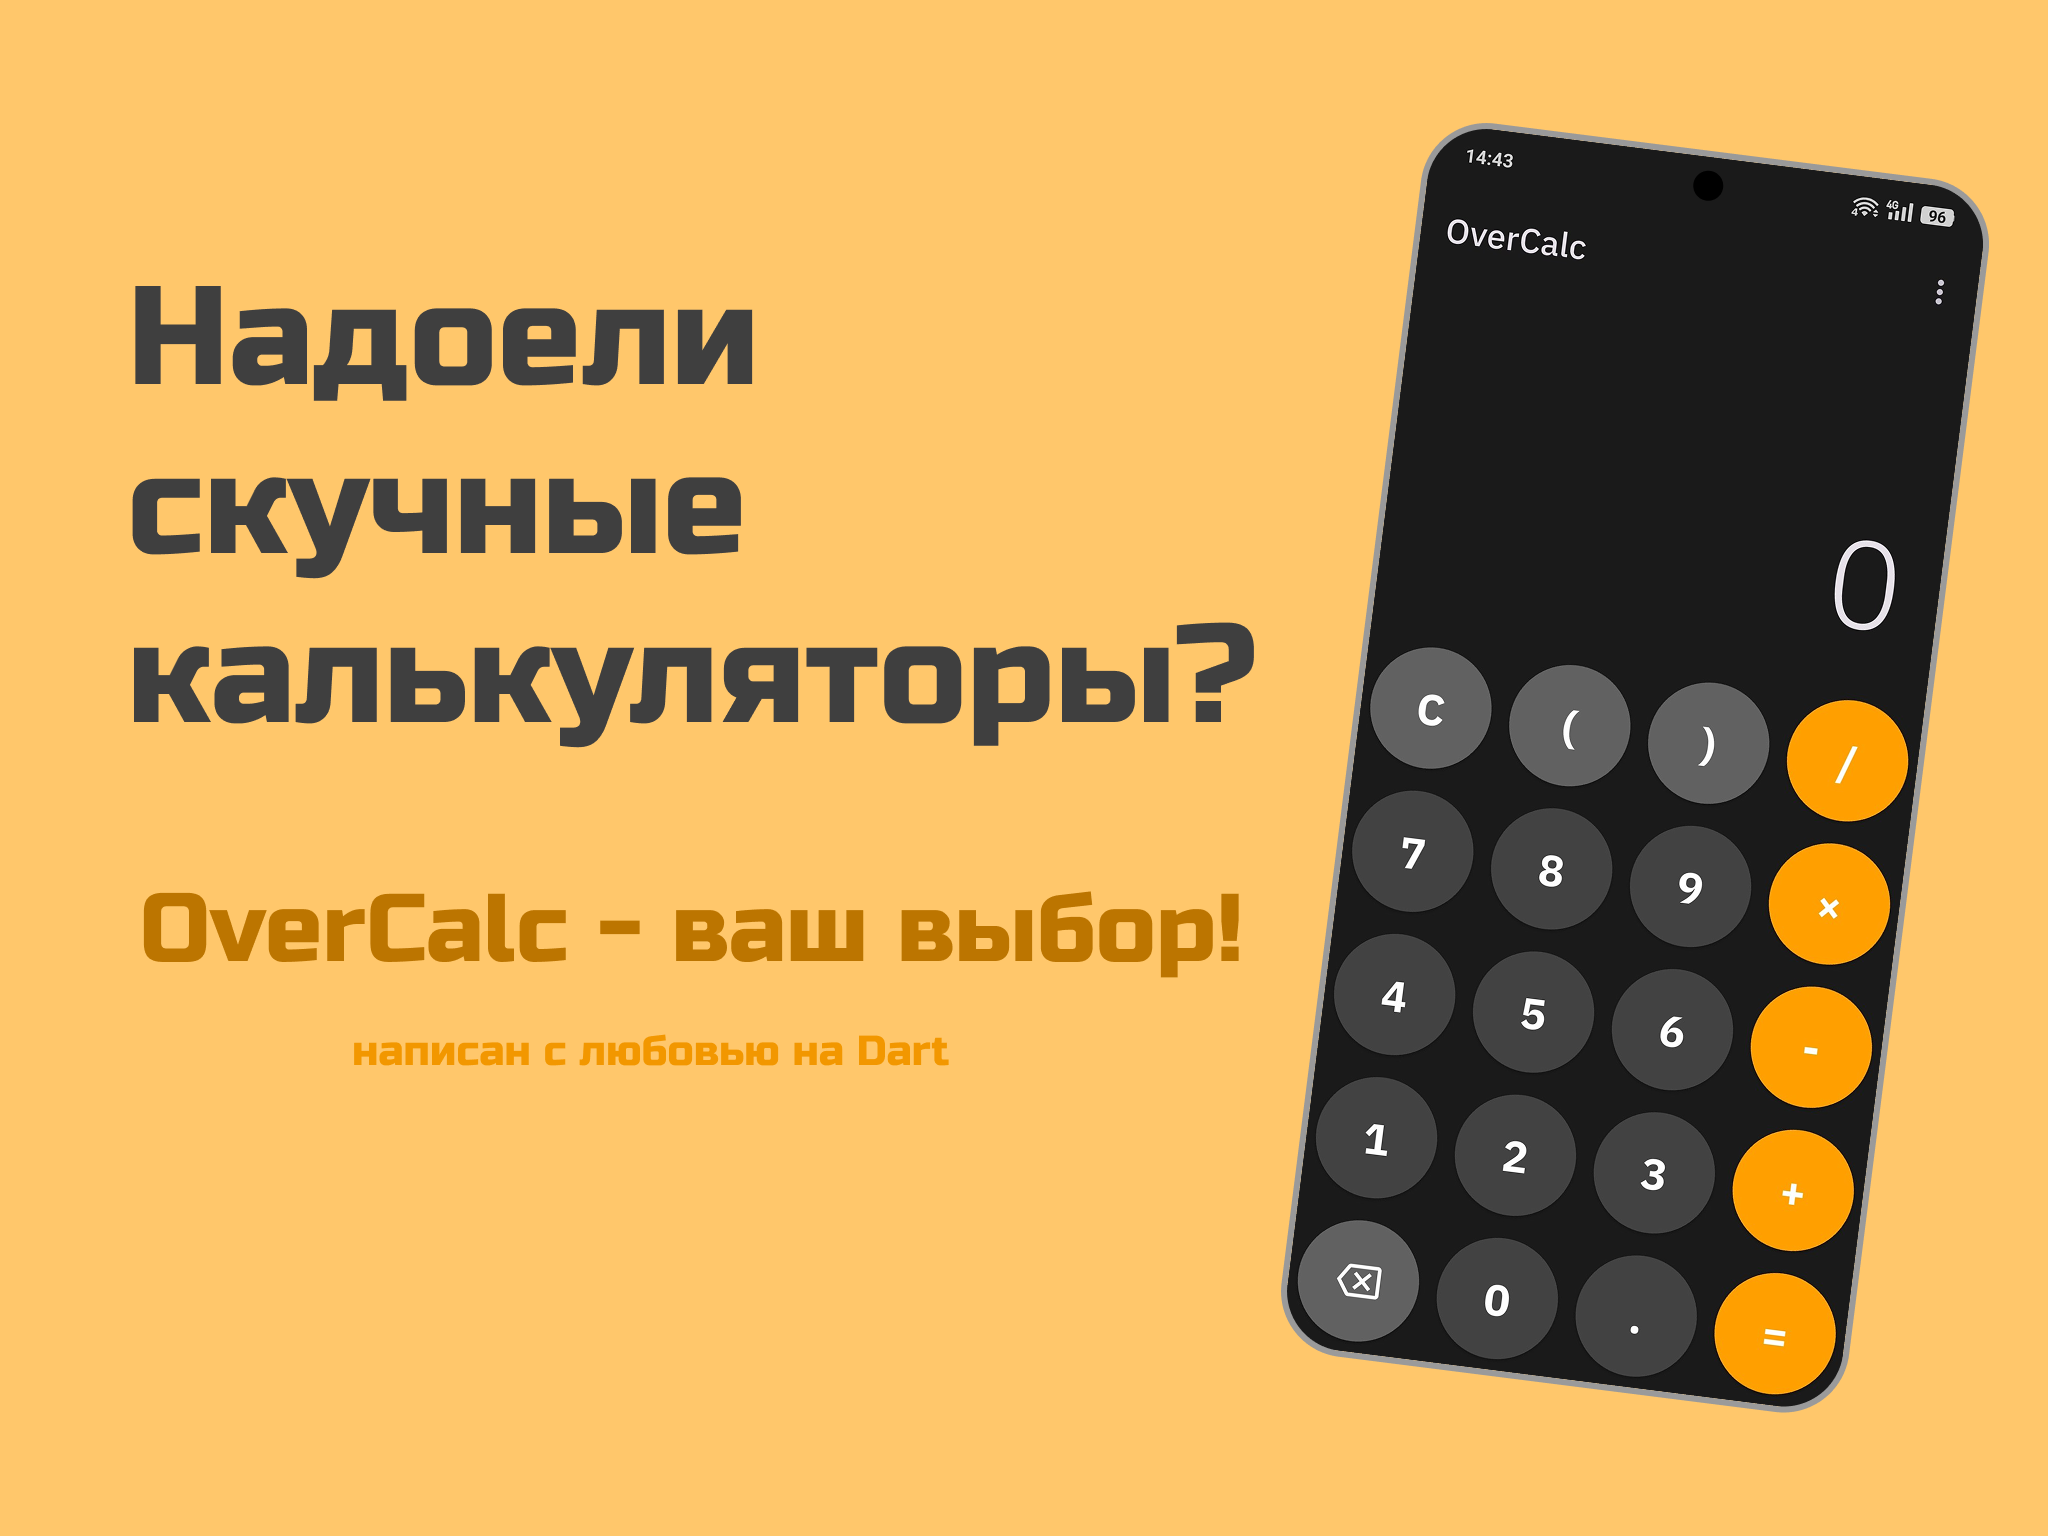
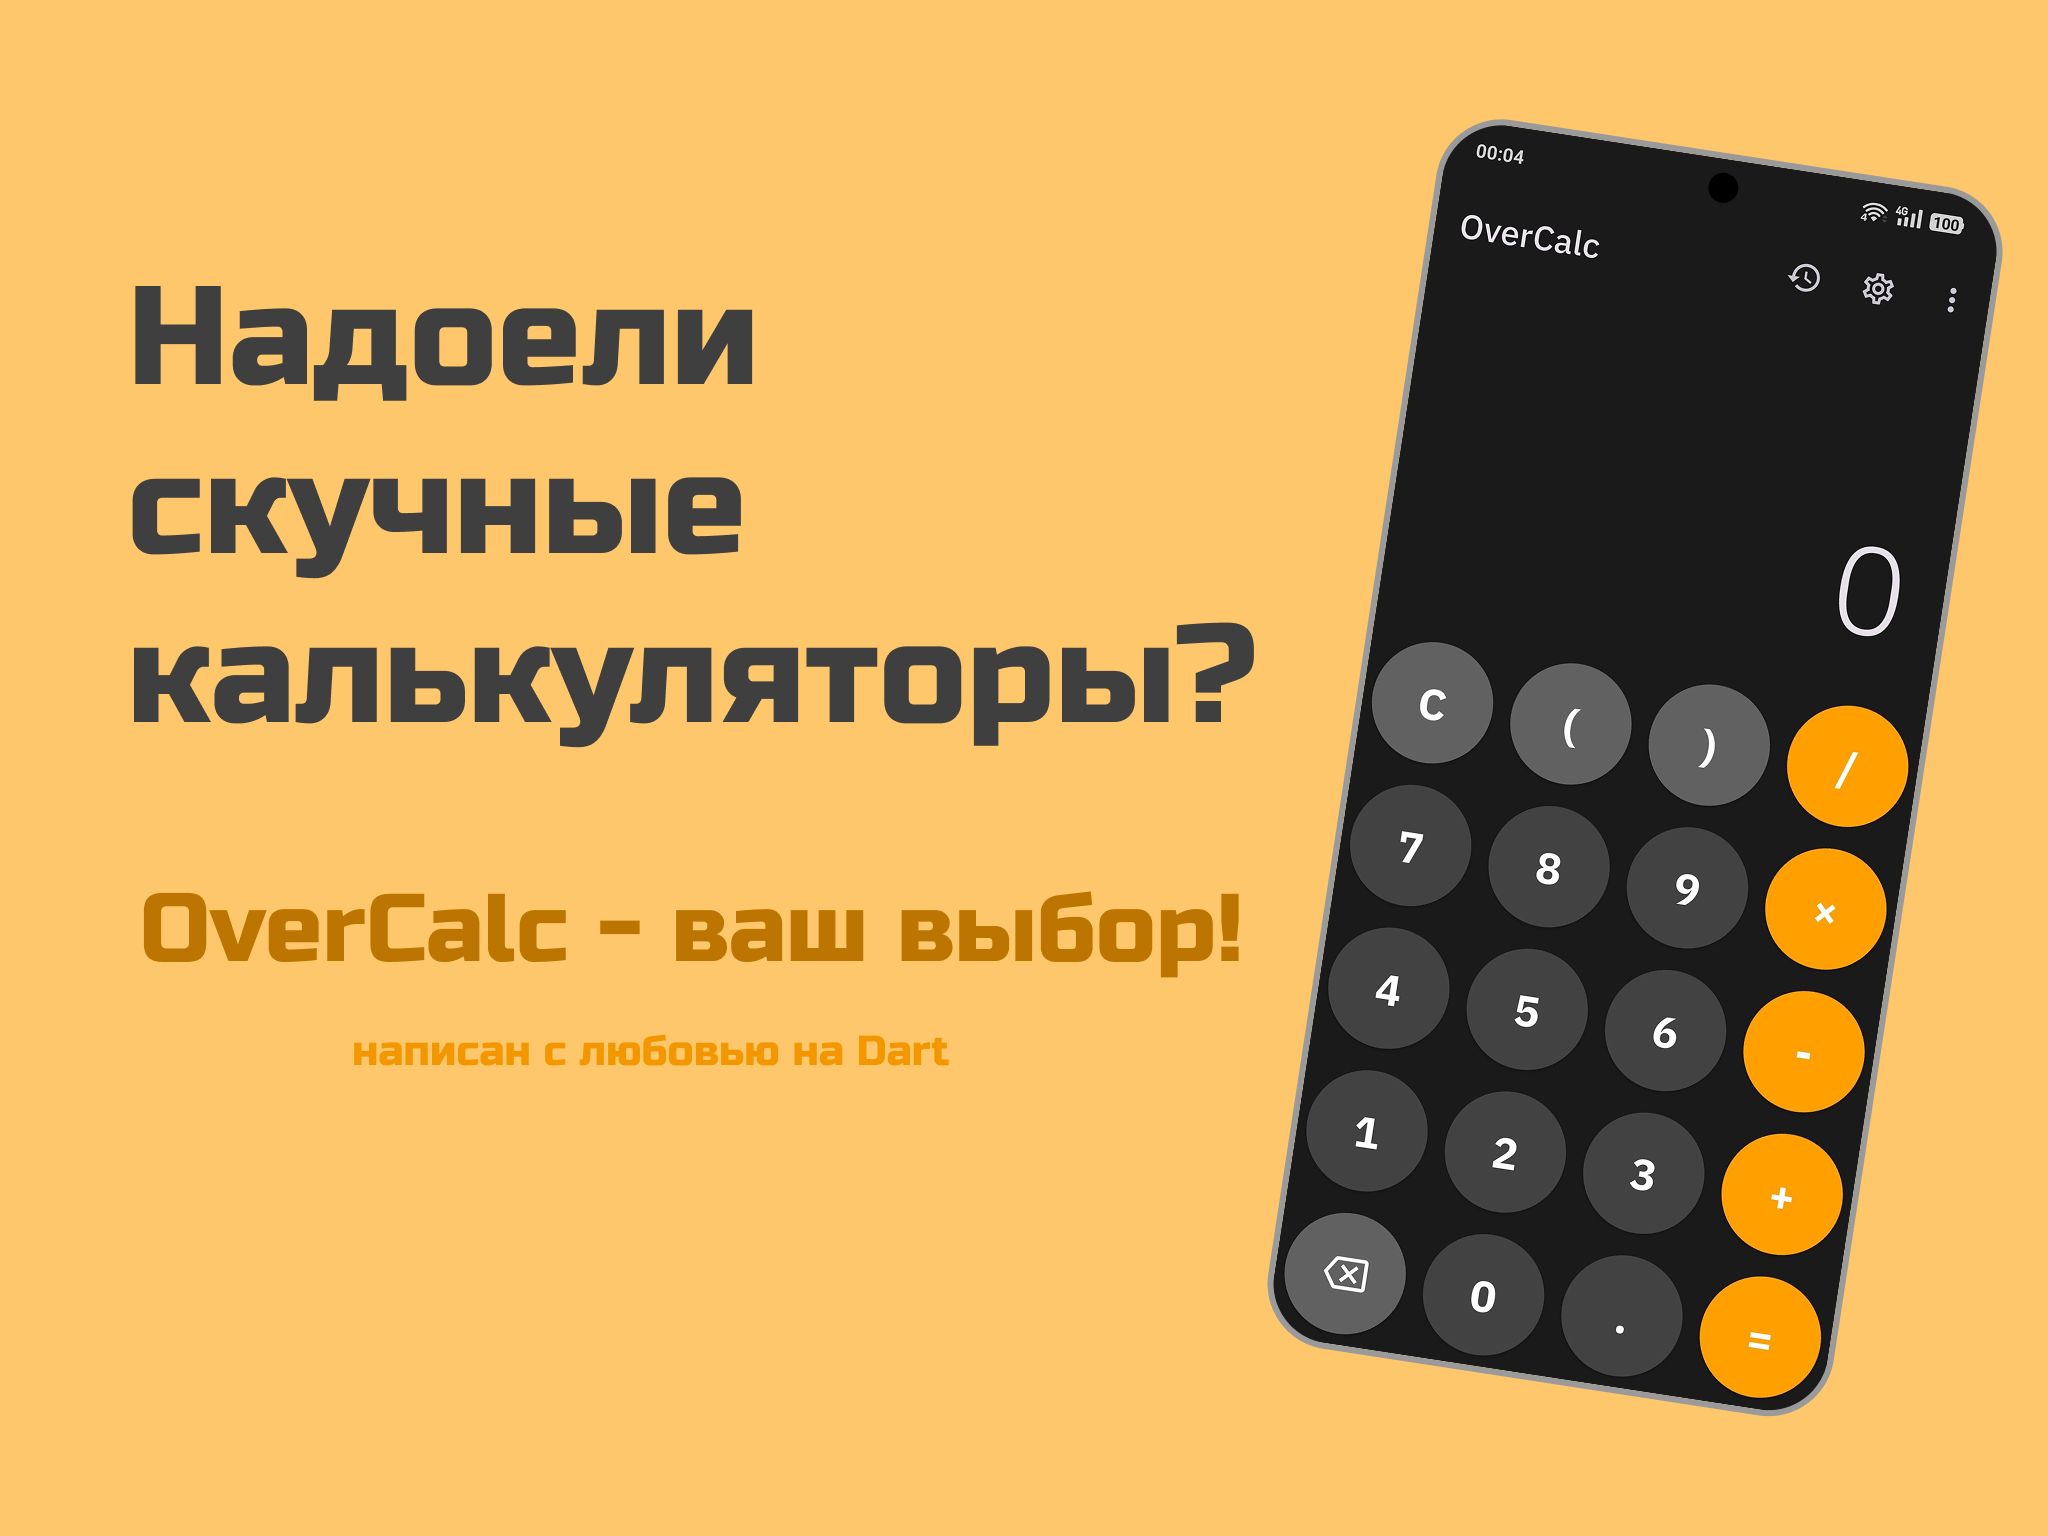
edited README and new slides with fresh screenshots

diff --git a/README.md b/README.md
@@ -32,8 +32,11 @@
     *   `flutter_secure_storage` - для хранения API ключа пользователя, истории, и настроек
     *   `url_launcher` - для открытия внешних ссылок
     *   `flutter_native_splash` & `flutter_launcher_icons` - для брендинга
+    *   `showcaseview` - для помощи новым пользователям
 
 ![OverCalc Slide 3](assets/images/ThirdSlide.png)
+
+![OverCalc Slide 4](assets/images/FourthSlide.png)
 
 ## Как запустить проект
 
